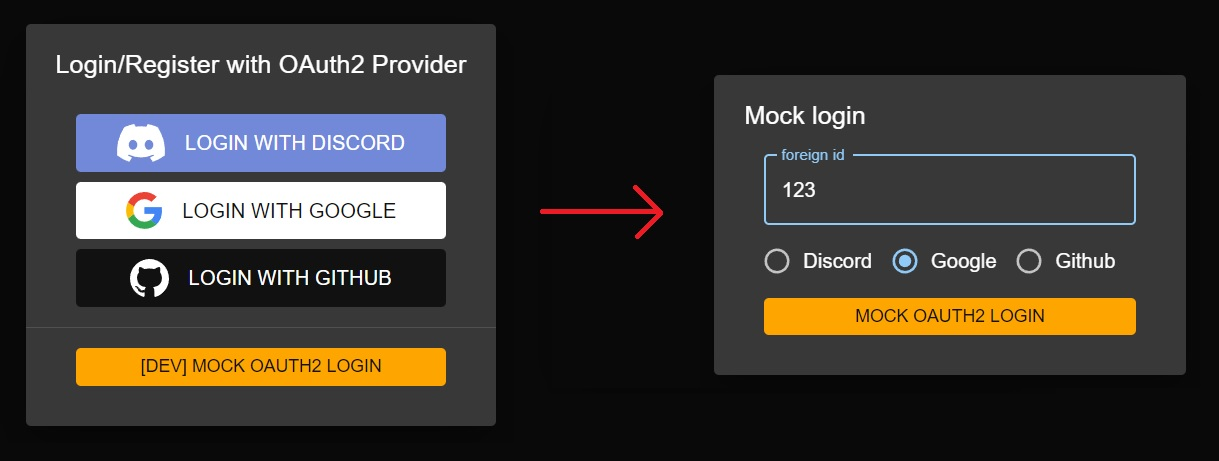
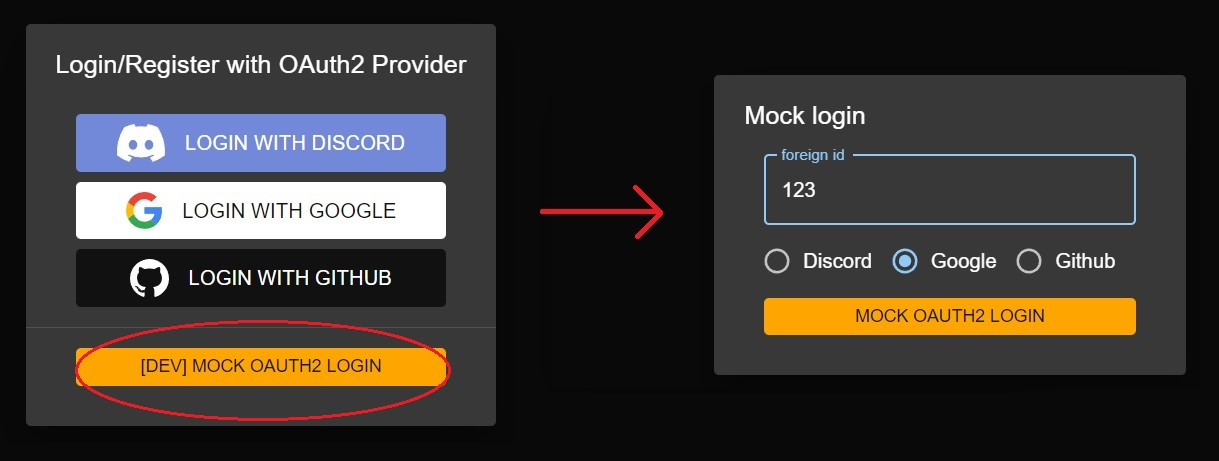
update readme

Changed region(s): [[0.0623, 0.6681, 0.3741, 0.9414]]

diff --git a/backend/README.md b/backend/README.md
@@ -1,6 +1,13 @@
 # media-sharing-service backend
 Node.js backend for media-sharing-service
 
+## Table of contents
+1. [Installation](#installation)
+2. [Configuration](#configuration)
+3. [Source code structure](#source-code-structure-src)
+4. [Mock OAuth2 Provider behaviour](#mock-oauth2-provider-behaviour)
+5. [Auth solution overview](#auth-solution-overview)
+
 ## Installation
 1. Clone this repository  
 `git clone https://github.com/szczursonn/media-sharing-service`  
@@ -48,3 +55,27 @@ Configuration is done using enviroment variables
 |DISCORD_MOCK|set to `true` to use mock oauth2 provider with Discord|NO|false|
 |GOOGLE_MOCK|set to `true` to use mock oauth2 provider with Google|NO|false|
 |GITHUB_MOCK|set to `true` to use mock oauth2 provider with Github|NO|false|
+
+## Source code structure (`/src`)
+- `/config`: app configuration loader
+- `/errors`: directory for custom errors
+- `/middlewares`: custom express middlewares
+- `/models`: TypeORM Entities
+- `/routes`: routes + http controllers
+- `/services`: services divided by entities they mainly handle excluding AuthService which is for auth
+  - `/MediaStorages`: implementations of media storage
+  - `/OAuth2Provider`: handlers for different OAuth2 providers
+- `/types`: Typescript type declarations + validator functions
+- `/utils`
+- `/createDataSource.ts`: functions for creating a TypeORM datasource with or without sample data (for testing)
+- `/createServer.ts`: functions for creating an express.js server, a real one or one for testing
+- `/Logger.ts`: custom logger
+- `/index.ts`: app's entry point
+
+## Mock OAuth2 Provider behaviour
+Mock OAuth2 Provider always returns a profile where foreign id is the code from the request, excluding `'invalidcode'` which simulates an invalid OAuth2 Code response.
+
+## Auth solution overview
+After the user logs in, a session is created in a database with an unique id.
+The session id is then placed inside a JSON Web Token, which is then returned to the client.
+The client then authenticates using Authorization header on every request that requires authentication. User logout is handled by deleting the session from the database.

diff --git a/README.md b/README.md
@@ -1,12 +1,16 @@
 # media-sharing-service
-Service for sharing media (images/videos) with other people
-![album page with some media inside](docs/doc_img2.jpg)
-![user settings page](docs/doc_img3.jpg)  
+Service for sharing media (images/videos) with other people  
+![list of albums](docs/doc_img2.jpg)
+![contents of an album with a video playing](docs/doc_img3.jpg)  
+## Table of contents
+1. [Live demo](#live-demo)
+2. [Features](#features)
+3. [Technologies/Libraries used](#technologieslibraries-used)
 ## [Live demo](http://adhesive-invention.surge.sh/)
-⚠ Live Demo doesn't use HTTPS  
-❗ **Logging in with Google is disabled for easier showcasing: use mock login option**  
+⚠ **Logging in with Google is disabled for easier showcasing: use mock login option and enter a random number/string as foreign id**  
+⚠ Live demo doesn't use HTTPS  
 ![mock login window](docs/doc_img1.jpg)  
-Invite to example commmunity: [qKXQ1sf-](http://adhesive-invention.surge.sh/i/qKXQ1sf-) (maxUses: inf, expires: never)
+- Invite to example commmunity: [qKXQ1sf-](http://adhesive-invention.surge.sh/i/qKXQ1sf-) (maxUses: inf, expires: never)
 ### Live demo deployment details
 - React frontend: [surge.sh](https://surge.sh/)
 - Node.js backend: Google Cloud Compute Engine instance
